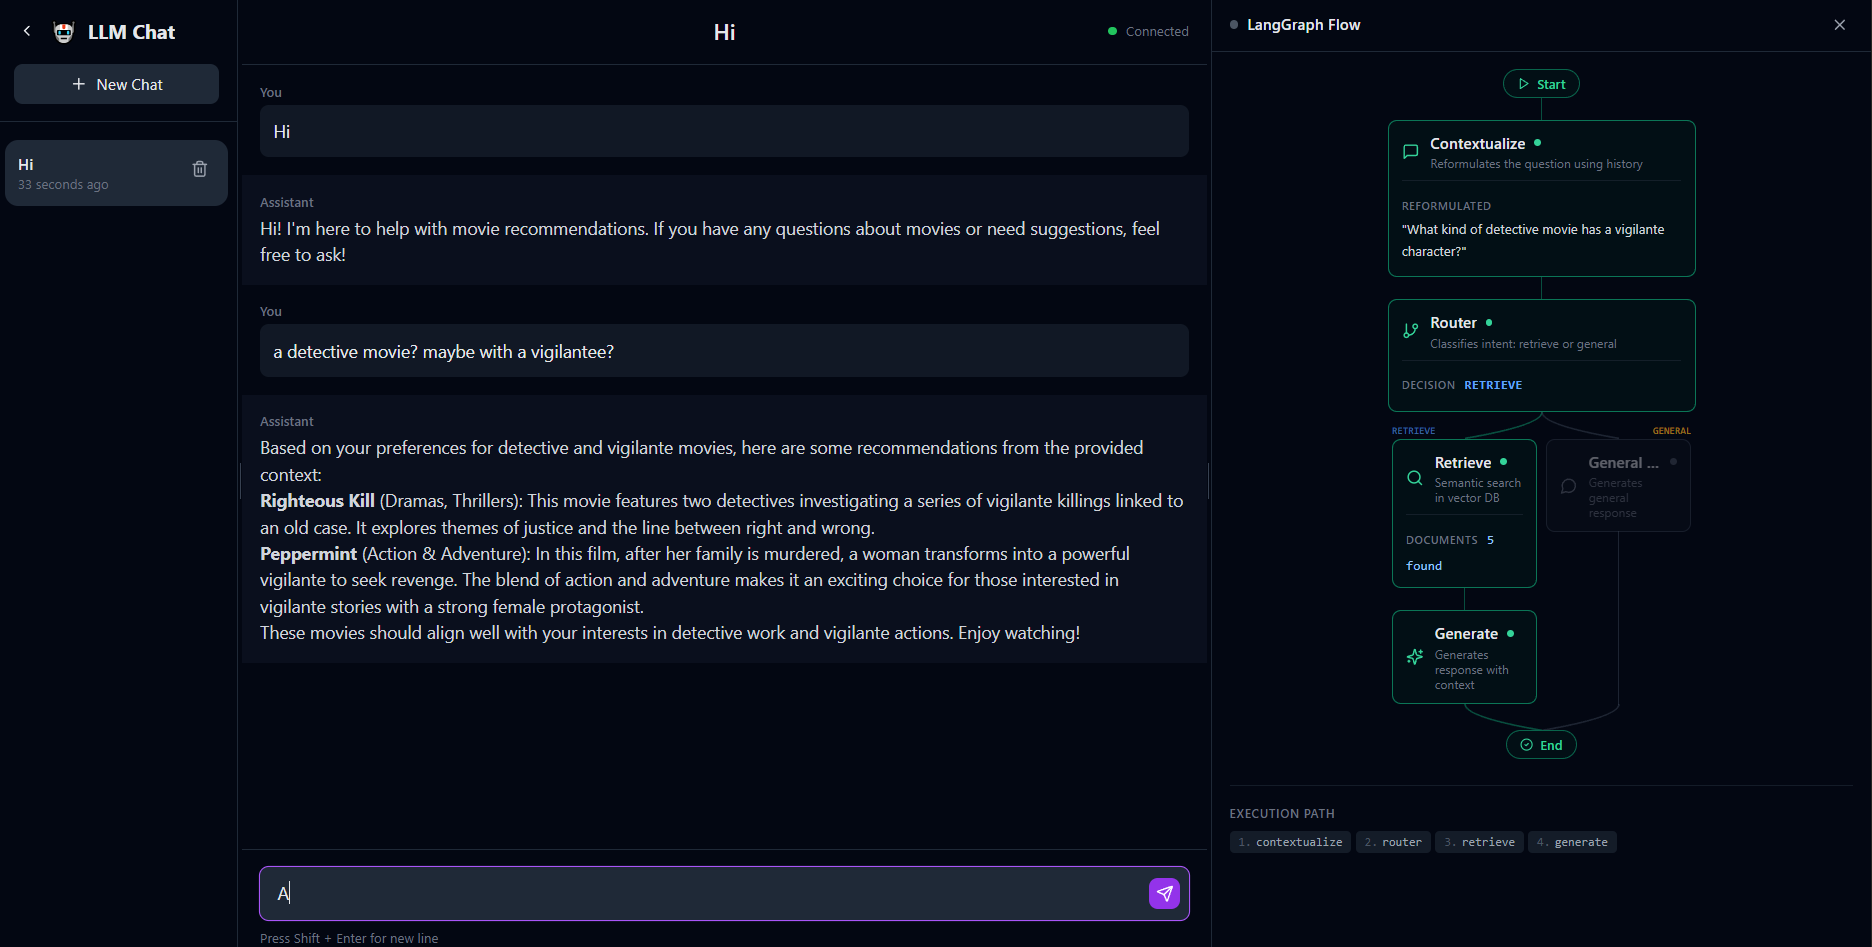
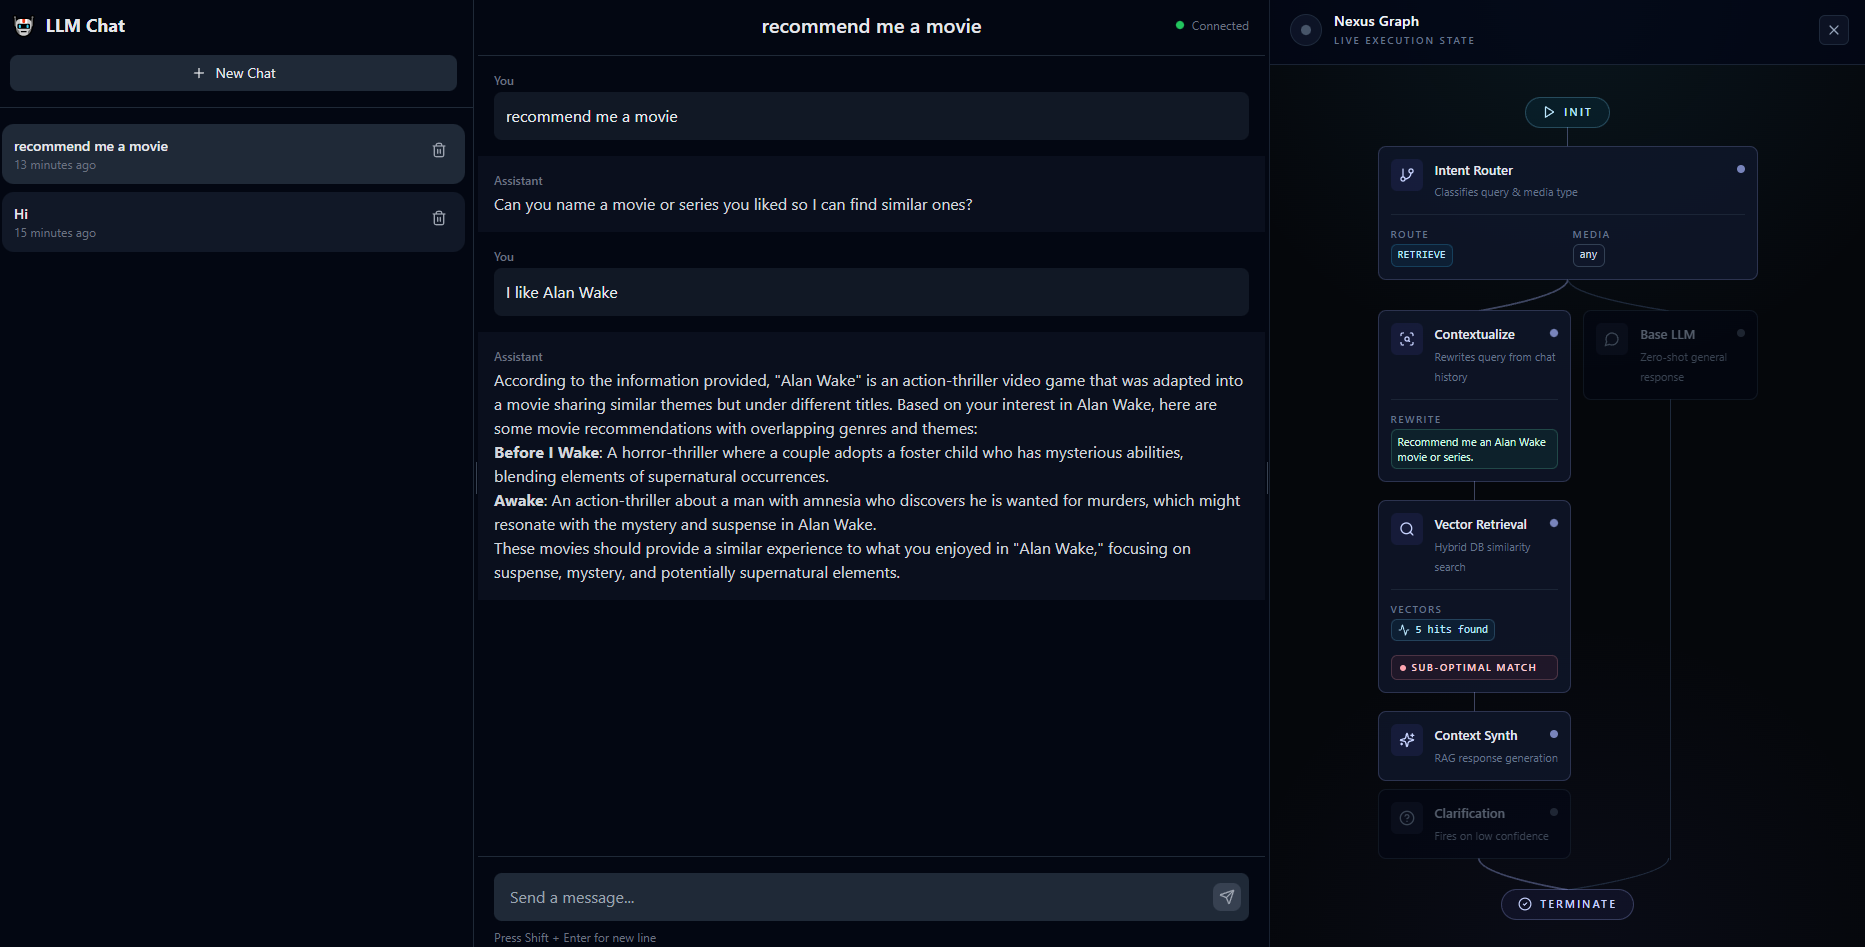
docs: update README to reflect new backend structure and clarify assistant flow, including interrupt handling and LangGraph integration

diff --git a/README.md b/README.md
@@ -41,18 +41,23 @@ The frontend is a chat interface that connects to the backend via WebSocket, all
 movie_recommendator/
 ├── backend/                    # API FastAPI + LangGraph + Qdrant
 │   ├── src/app/
-│   │   ├── api/v1/endpoints/   # REST and WebSocket routes
-│   │   ├── assistants/         # Assistant (movie_assistant) and LangGraph flow
-│   │   ├── core/config/        # Configuration (settings, Qdrant, etc.)
-│   │   ├── crud/               # WebSocket logic and handlers (ws_movies)
-│   │   ├── db/                 # Qdrant population (populate_movies_qdrant)
-│   │   └── services/           # Hybrid retriever (retriever.py)
+│   │   ├── api/v1/endpoints/   # REST and WebSocket routes (thin layer)
+│   │   ├── assistants/         # LangGraph state machine (movie_assistant)
+│   │   ├── core/config/        # Settings and logging
+│   │   ├── crud/               # DB access layer (conversation_crud)
+│   │   ├── db/                 # Session factory and schema init
+│   │   ├── entities/           # SQLModel ORM models (Conversation, Message)
+│   │   ├── etl/                # Qdrant population from Kaggle datasets
+│   │   ├── prompts/            # LLM prompt templates per graph node
+│   │   ├── schemas/            # Pydantic request/response schemas
+│   │   ├── services/           # Retriever, LLM client, history compressor
+│   │   └── websocket/          # WebSocket layer (handler, generation, session, protocol)
 │   ├── litellm_config.yaml     # LiteLLM model configuration (see LiteLLM)
 │   ├── pyproject.toml
 │   └── Dockerfile
 ├── frontend/                   # Chat UI (React + Vite)
 │   ├── src/
-│   │   ├── components/chat/    # ChatView, ChatInput, Sidebar
+│   │   ├── components/chat/    # ChatView, ChatInput, Sidebar, LangGraphPanel
 │   │   ├── providers/          # WebSocketProvider
 │   │   ├── lib/                # config, api, types
 │   │   └── service/            # ws.ts (WebSocket client)
@@ -139,8 +144,10 @@ The same class is used both to **index** documents (during `populate_movies_qdra
 Users can **stop an in-progress assistant reply** at any time:
 
 1. **Frontend**: The chat UI exposes an interrupt control (e.g. stop button). When clicked, the client sends a WebSocket message with `type: "interrupt"`.
-2. **Backend**: The WebSocket handler (`ws_movies.py`) maintains an `interrupt_event` (e.g. `asyncio.Event`). On `interrupt`, it sets this event and waits for the current generation task to finish. The LangGraph stream loop checks the event each iteration and exits as soon as it is set.
-3. **After interrupt**: The server sends `interrupt_ack` to the client. If the model had already produced some text, that partial reply is kept and the handler appends a short suffix (e.g. `[message interrupted by the user]`) before saving the message to Postgres. So the conversation history still contains the truncated turn plus the interrupt marker.
+2. **Backend**: The WebSocket handler (`websocket/handler.py`) maintains an `interrupt_event` (`asyncio.Event`). On `interrupt`, it sets this event and waits for the current generation task to finish. The LangGraph stream loop in `websocket/generation.py` checks the event each iteration and exits as soon as it is set.
+3. **After interrupt**: The server sends `interrupt_ack` to the client. If the model had already produced some text, that partial reply is kept and the handler appends `[message interrupted by the user]` before saving the message to Postgres. So the conversation history still contains the truncated turn plus the interrupt marker.
+
+This also applies when the client disconnects mid-generation (tab close, page refresh, navigation). The DB write always runs regardless of connection state, so the partial response with the interrupted suffix is preserved and visible when the user returns to the conversation.
 
 
 ### Conversations <a id="change-conversation-name"></a>
@@ -158,32 +165,35 @@ The assistant is implemented as a **LangGraph** state machine in `backend/src/ap
 
 ```mermaid
 flowchart TD
-    START([Start]) --> contextualize[contextualize]
-    contextualize --> router{router}
-    router -->|RETRIEVE| retrieve[retrieve]
+    START([Start]) --> router{router}
+    router -->|RETRIEVE| contextualize[contextualize]
     router -->|GENERAL| generate_general[generate_general]
-    retrieve --> generate[generate]
-    generate --> END1([End])
-    generate_general --> END2([End])
+    contextualize --> retrieve[retrieve]
+    retrieve -->|scores OK or reask exhausted| generate_retrieve[generate_retrieve]
+    retrieve -->|low score, reask allowed| reask_user[reask_user]
+    generate_retrieve --> Finish([End])
+    generate_general --> Finish
+    reask_user --> Finish
 ```
 
 **Node roles:**
 
 | Node | Role |
 |------|------|
-| **contextualize** | Rewrites the last user message using recent chat history so it is self-contained (e.g. “make it shorter” → “make the list of recommendations shorter”). Uses a secondary/smaller LLM. |
-| **router** | Classifies the reformulated question: **RETRIEVE** (needs movies/reviews from the vector DB) or **GENERAL** (general chat, no retrieval). |
-| **retrieve** | Calls **HybridSearcher** with the reformulated question and optional rerank; returns top documents. |
-| **generate** | Builds the final answer from the retrieved context and chat history (RAG path). |
+| **router** | Runs first on the last user message: **RETRIEVE** (needs movies/reviews from the vector DB) or **GENERAL** (general chat, no retrieval), plus **media_type** for Qdrant filtering. Uses a secondary/smaller LLM. |
+| **contextualize** | Only on the RETRIEVE path: rewrites the message using recent chat history so it is self-contained (e.g. “make it shorter” → “make the list of recommendations shorter”). Uses the secondary LLM. |
+| **retrieve** | Calls **HybridSearcher** with the contextualized question and optional rerank; sets **needs_reask** when the best score is below threshold. |
+| **generate_retrieve** | Builds the final answer from retrieved context and chat history (RAG path). |
+| **reask_user** | When retrieval quality is low and re-ask budget allows, asks the user for more specifics; otherwise the graph falls through to **generate_retrieve** (see `route_after_retrieve` in code). |
 | **generate_general** | Answers without retrieval, using only chat history (general path). |
 
 **Frontend visualization of the graph**
 
 The **LangGraph panel** (e.g. `LangGraphPanel.tsx`) shows the same flow in the UI:
 
-- **Node cards**: One card per node (Contextualize, Router, Retrieve, Generate, General Answer). Each card shows an icon, label, short description, and optional **outputs** (e.g. reformulated question, decision, document count) when the backend sends `node_output` events.
+- **Node cards**: One card per node (Router, Contextualize, Retrieve, Generate (RAG), Re-ask, General Answer). Each card shows an icon, label, short description, and optional **outputs** (e.g. reformulated question, decision, document count) when the backend sends `node_output` events.
 - **Status**: Each node has a status—**idle** (gray), **active** (purple, current step), **completed** (green), or **error** (red). The backend drives this via `node_start` / `node_end` and the execution path.
-- **Execution path**: A vertical layout mirrors the Mermaid flow: Start → contextualize → router → then either the retrieve → generate branch or the generate_general branch. Edges (lines/splits) are highlighted (e.g. purple when active, green when completed) so the user sees which branch is taken and which node is running.
+- **Execution path**: A vertical layout mirrors the Mermaid flow: Start → router → on **RETRIEVE**, contextualize → retrieve → then either generate (RAG) or re-ask; on **GENERAL**, generate_general. Edges (lines/splits) are highlighted (e.g. purple when active, green when completed) so the user sees which branch is taken and which node is running.
 - **Live updates**: During streaming, `graph_start` / `graph_end` and `node_start` / `node_end` / `node_output` WebSocket events update the panel so the graph animates in real time and shows the router’s decision and retrieval count without leaving the chat.
 
 
@@ -199,7 +209,7 @@ The Qdrant index is populated from two **Kaggle** datasets (used by default when
    - **Kaggle**: [shivamb/netflix-shows](https://www.kaggle.com/datasets/shivamb/netflix-shows)  
    - Used for mixed movies/TV (e.g. title, director, cast, listed_in, description, type).
 
-Download is done via **kagglehub** inside `backend/src/app/db/populate_movies_qdrant.py` when you run the init/profile without providing `-m` / `-x` paths. You need Kaggle API credentials configured for automatic download; otherwise you can download the datasets from the links above and pass the CSV paths to the script.
+Download is done via **kagglehub** inside `backend/src/app/etl/populate_qdrant_movies.py` when you run the init/profile without providing `-m` / `-x` paths. You need Kaggle API credentials configured for automatic download; otherwise you can download the datasets from the links above and pass the CSV paths to the script.
 
 
 ## How to run <a id="run"></a>
